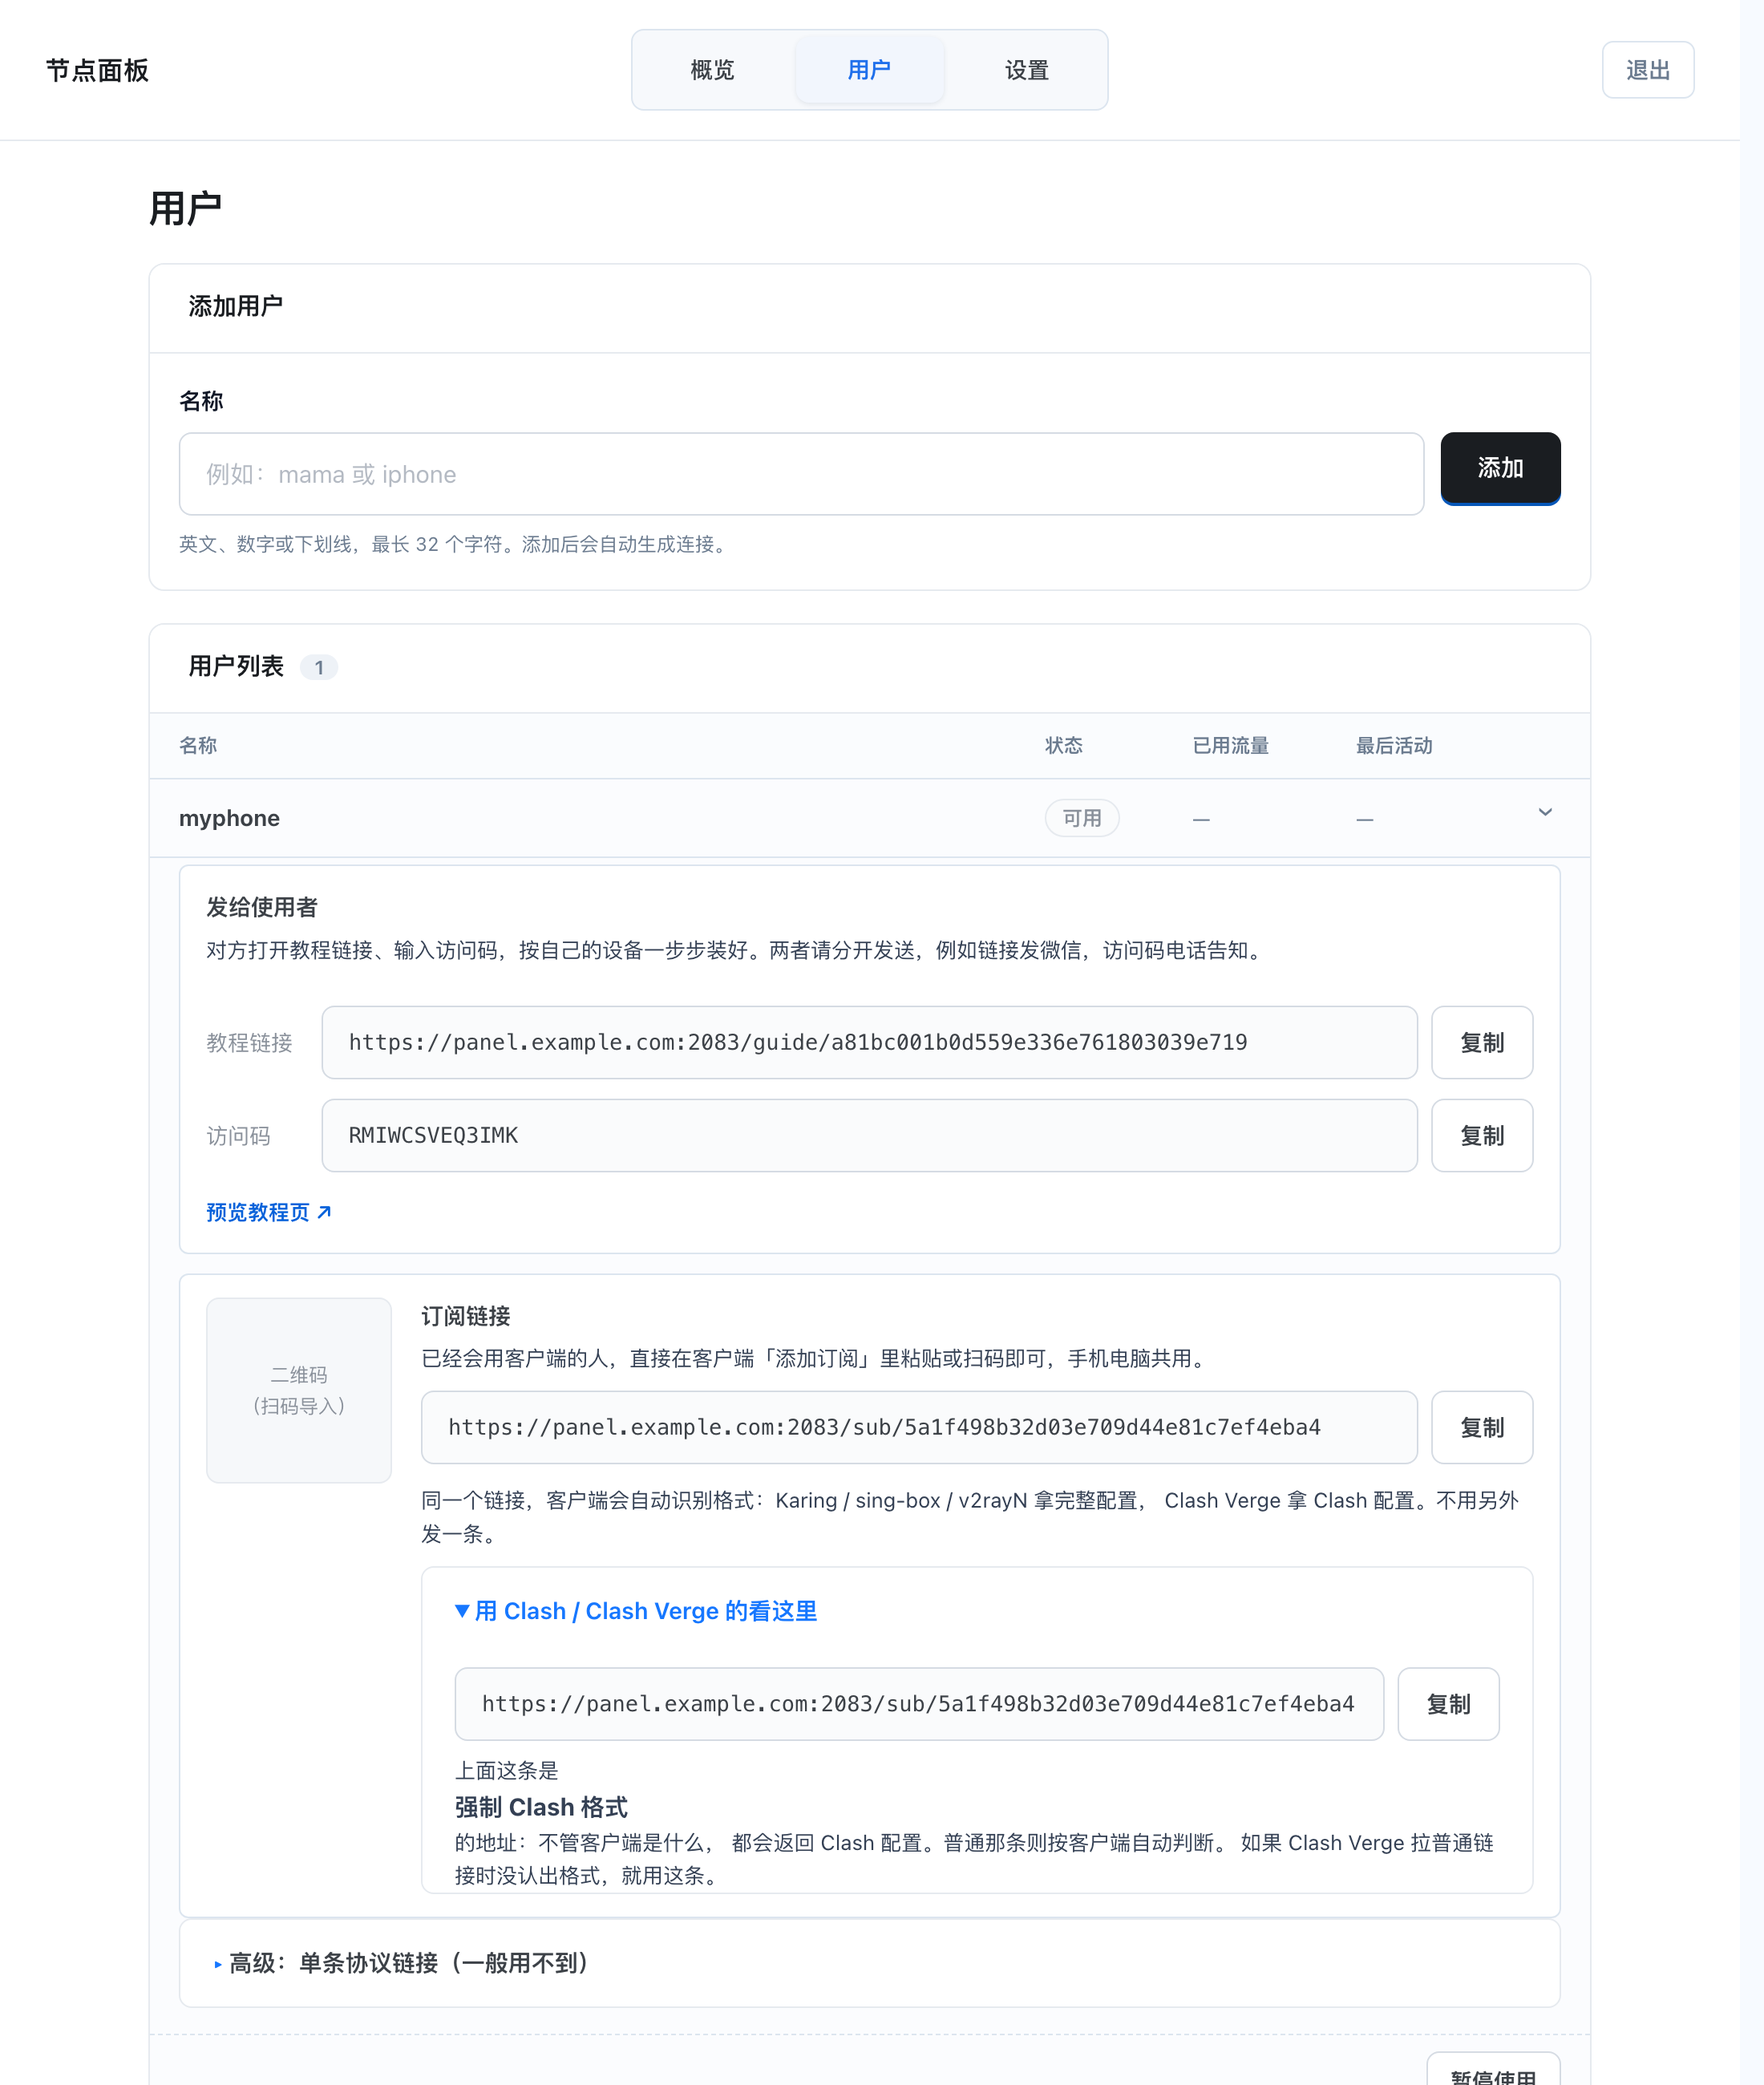
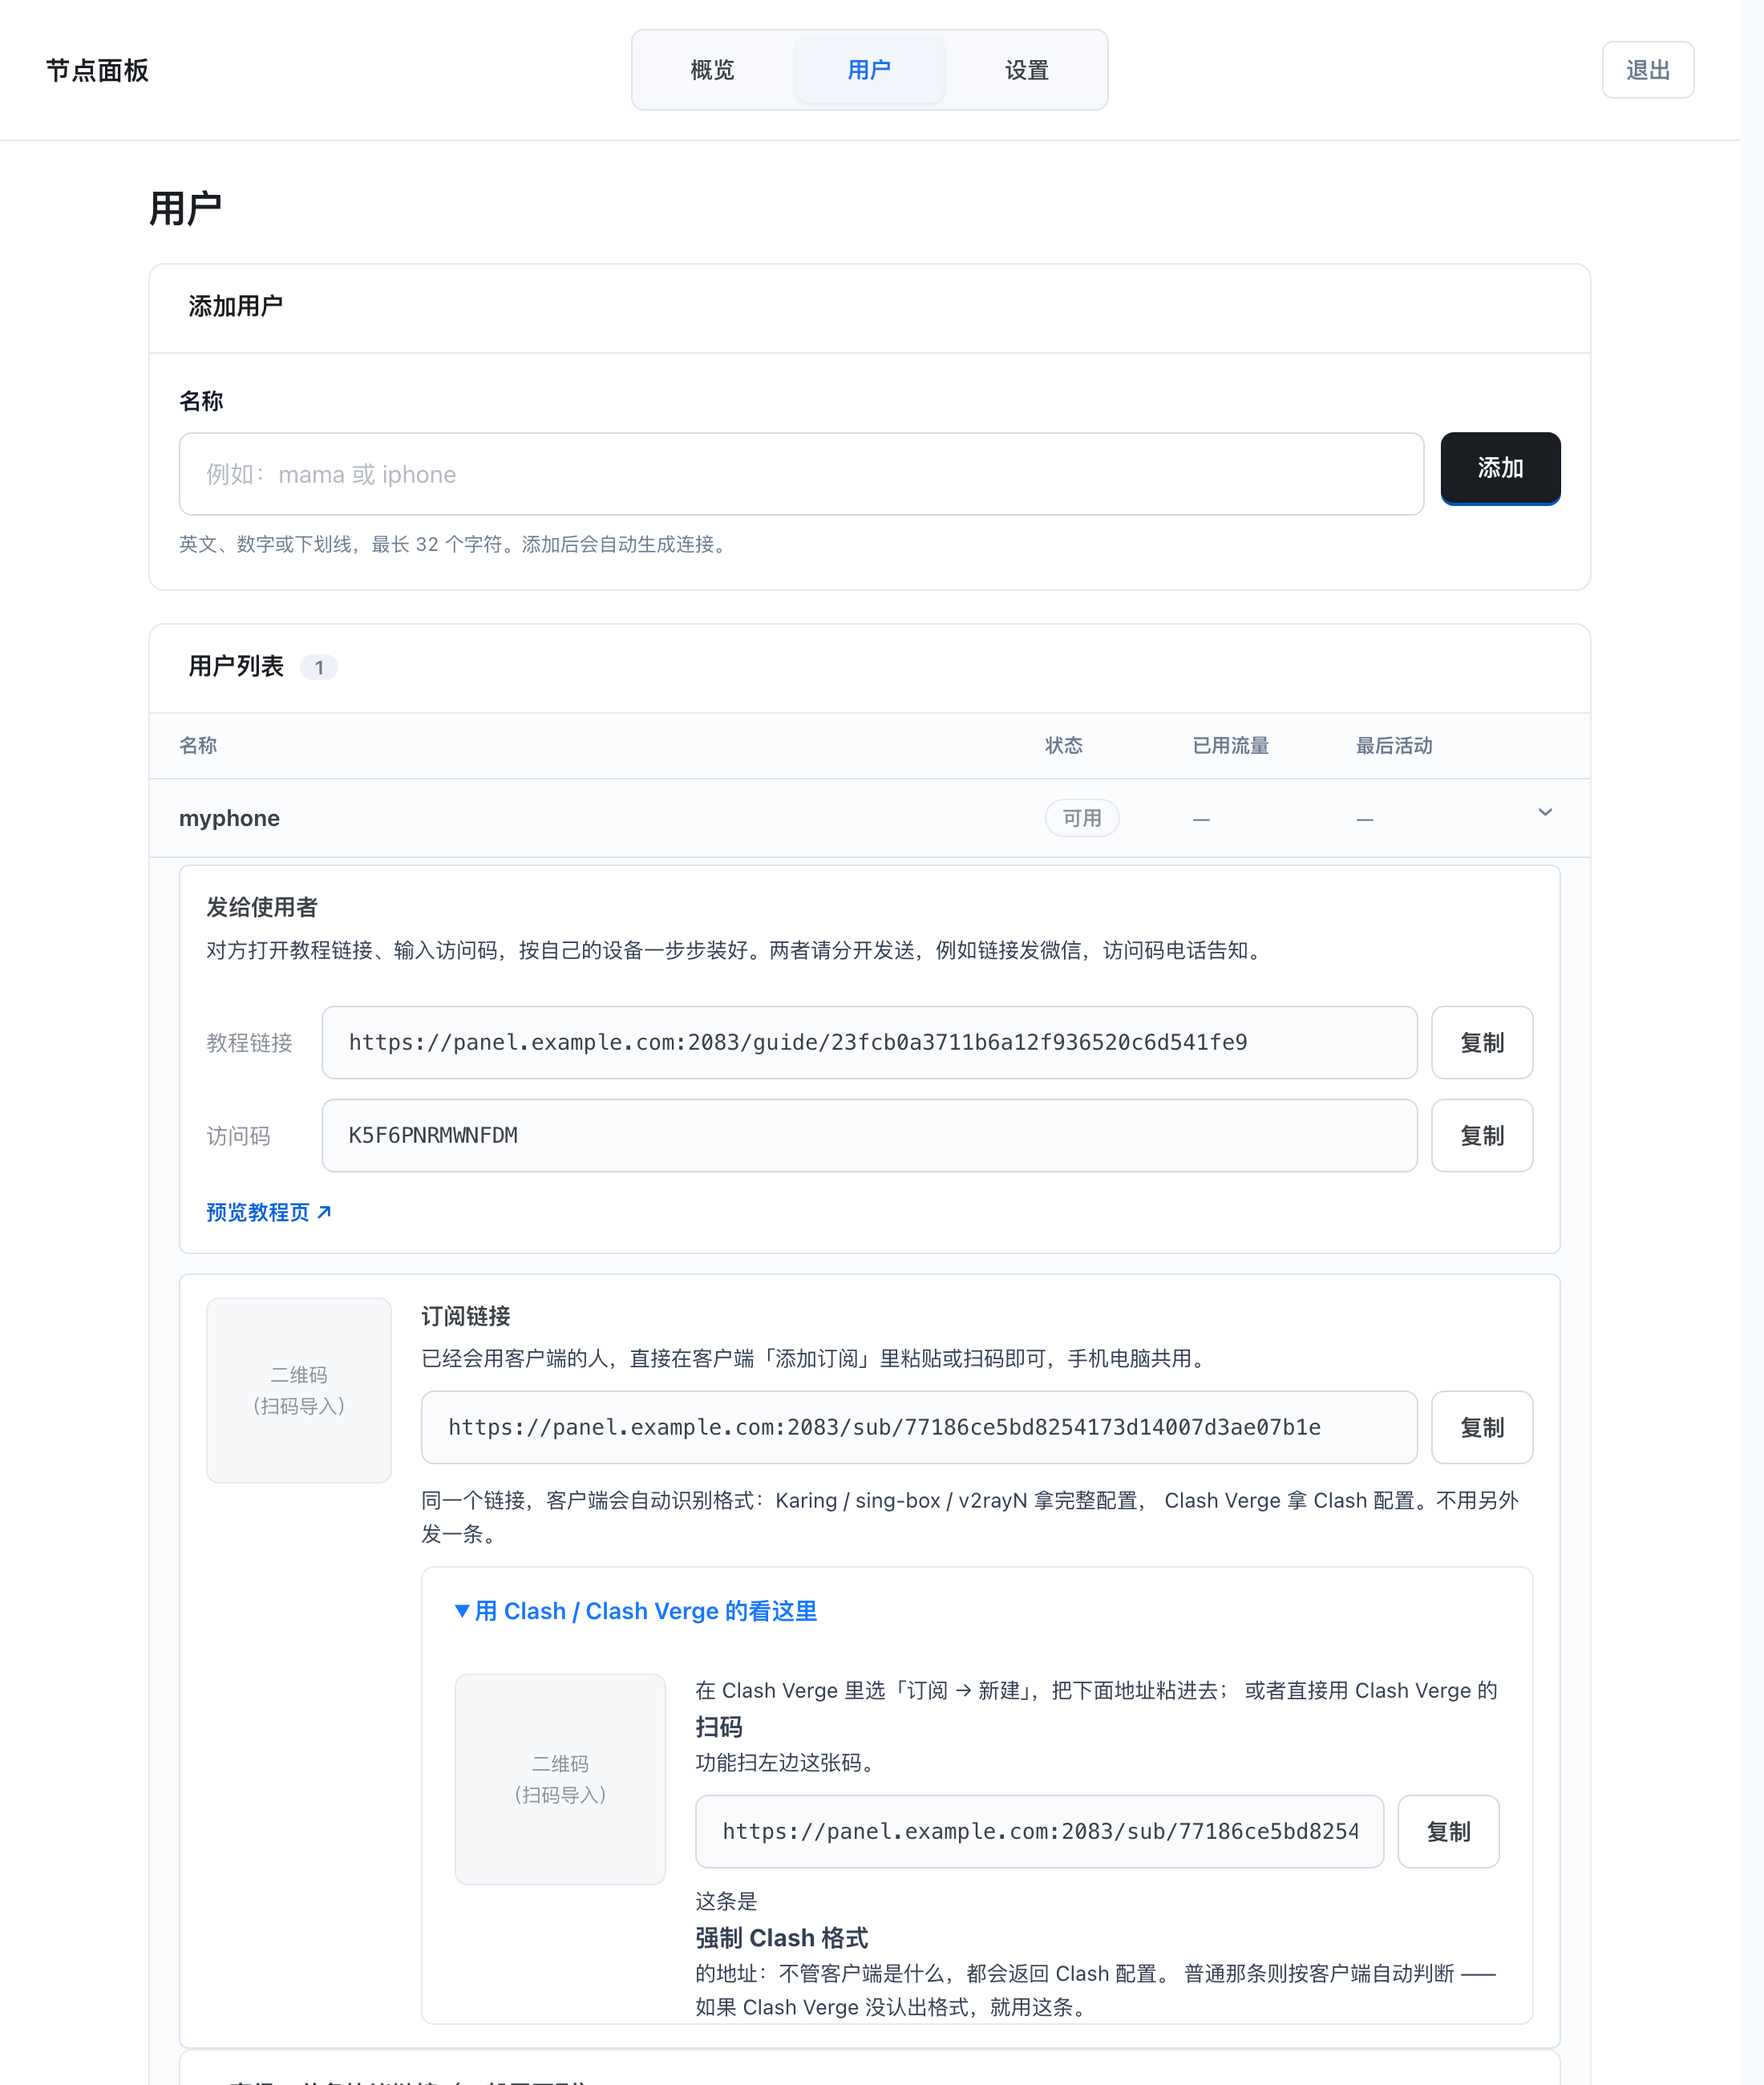
v1.0.7：Clash 订阅支持扫码导入
- 用户页 Clash 区块新增二维码，可用 Clash Verge 扫码导入
- 二维码接口支持 ?p=clash，生成的地址自带 target=clash
- Clash 区块改为「二维码 + 说明 + 链接」并排布局
- 同步更新界面预览图

diff --git a/app/templates/users.html b/app/templates/users.html
@@ -87,17 +87,26 @@
           </p>
           <details class="sub-alt">
             <summary>用 Clash / Clash Verge 的看这里</summary>
-            <div class="share-line">
-              <input id="clash-sub-{{ client.id }}" value="{{ client.sub_url }}?target=clash" readonly
-                     aria-label="{{ client.name }} 的 Clash 订阅链接">
-              <button class="icon-button" type="button" data-copy-target="clash-sub-{{ client.id }}"
-                      title="复制链接" aria-label="复制链接">复制</button>
+            <div class="clash-block">
+              <img class="sub-qr" src="/sub/{{ client.sub_token }}/qr.png?p=clash"
+                   alt="{{ client.name }} 的 Clash 订阅二维码" loading="lazy">
+              <div class="clash-copy">
+                <p class="kv-muted">
+                  在 Clash Verge 里选「订阅 → 新建」，把下面地址粘进去；
+                  或者直接用 Clash Verge 的<strong>扫码</strong>功能扫左边这张码。
+                </p>
+                <div class="share-line">
+                  <input id="clash-sub-{{ client.id }}" value="{{ client.sub_url }}?target=clash" readonly
+                         aria-label="{{ client.name }} 的 Clash 订阅链接">
+                  <button class="icon-button" type="button" data-copy-target="clash-sub-{{ client.id }}"
+                          title="复制链接" aria-label="复制链接">复制</button>
+                </div>
+                <p class="kv-muted">
+                  这条是<strong>强制 Clash 格式</strong>的地址：不管客户端是什么，都会返回 Clash 配置。
+                  普通那条则按客户端自动判断 —— 如果 Clash Verge 没认出格式，就用这条。
+                </p>
+              </div>
             </div>
-            <p class="kv-muted">
-              上面这条是<strong>强制 Clash 格式</strong>的地址：不管客户端是什么，
-              都会返回 Clash 配置。普通那条则按客户端自动判断。
-              如果 Clash Verge 拉普通链接时没认出格式，就用这条。
-            </p>
           </details>
         </div>
       </section>

diff --git a/app/static/app.css b/app/static/app.css
@@ -2575,3 +2575,44 @@ details.sub-alt > summary:hover {
   color: var(--np-text);
   font-size: 13.5px;
 }
+
+/* Clash 订阅区块：二维码与说明并排，窄屏自动堆叠。 */
+.clash-block {
+  display: grid;
+  grid-template-columns: auto minmax(0, 1fr);
+  gap: 18px;
+  align-items: start;
+  margin-top: 12px;
+}
+
+.clash-block .sub-qr {
+  width: 132px;
+  height: 132px;
+  padding: 8px;
+  border: 1px solid var(--np-border);
+  border-radius: var(--np-radius-sm);
+  background: #fff;
+}
+
+.clash-copy > .kv-muted {
+  margin: 0 0 10px;
+}
+
+.clash-copy .share-line {
+  margin-bottom: 10px;
+}
+
+.clash-copy > .kv-muted:last-child {
+  margin-bottom: 0;
+}
+
+@media (max-width: 560px) {
+  .clash-block {
+    grid-template-columns: 1fr;
+    justify-items: center;
+  }
+
+  .clash-copy {
+    width: 100%;
+  }
+}

diff --git a/app/routes/subscription.py b/app/routes/subscription.py
@@ -224,6 +224,10 @@ def subscription_qr(request: Request, token: str, p: str = ''):
         raise NotFound()
     if p == 'singbox':
         payload = sub_url(request, client).rstrip('/') + '/singbox.json'
+    elif p == 'clash':
+        # Clash Verge 等客户端可以直接扫订阅地址的二维码导入；
+        # 带上 target=clash 让服务端明确返回 Clash 配置，不依赖 UA 识别。
+        payload = sub_url(request, client).rstrip('/') + '?target=clash'
     elif p in ('vless-reality', 'hysteria2') and p in singbox.enabled_keys():
         pin = '' if preview_mode() else singbox.cert_pin()
         if p == 'hysteria2' and not pin and not preview_mode():
